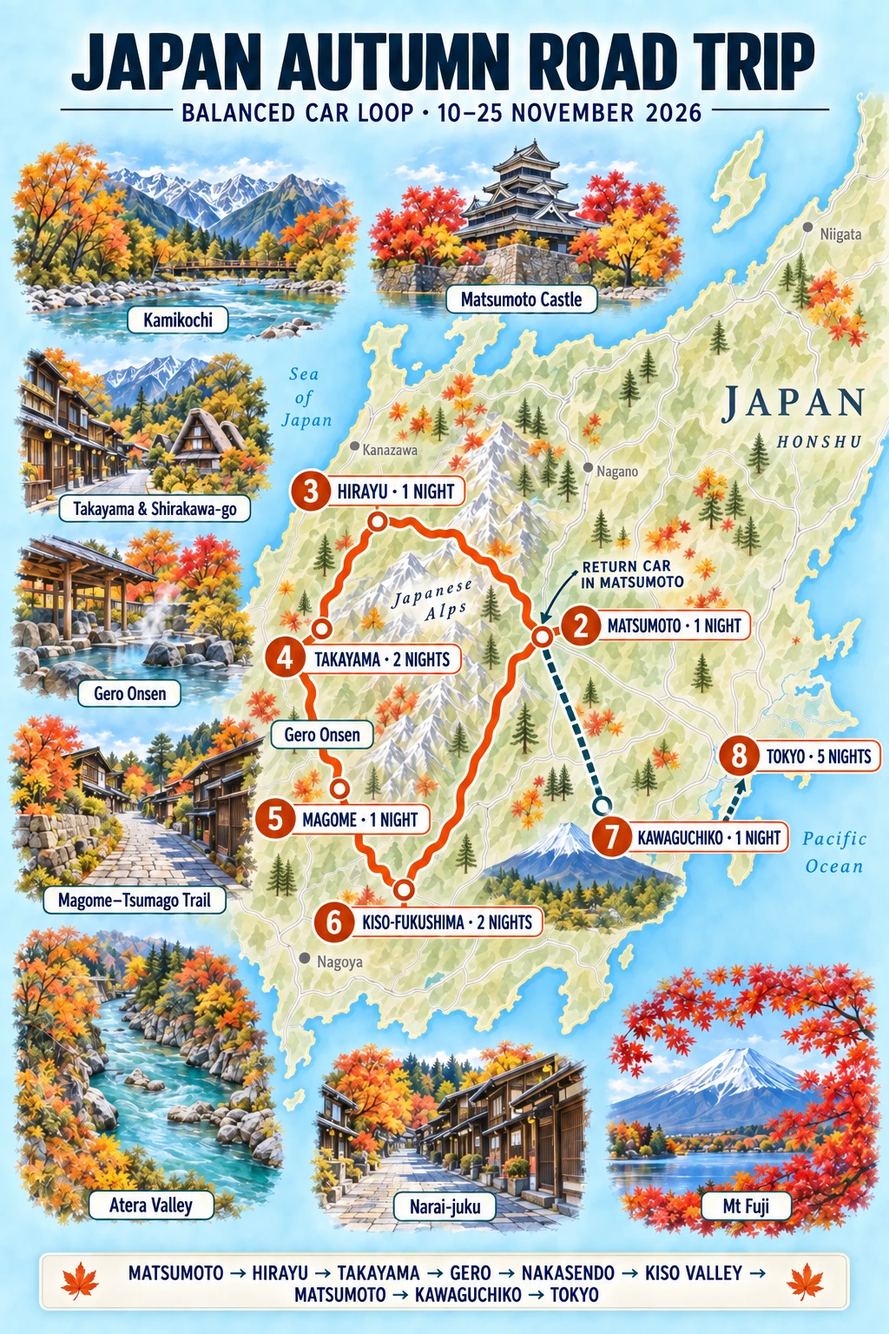
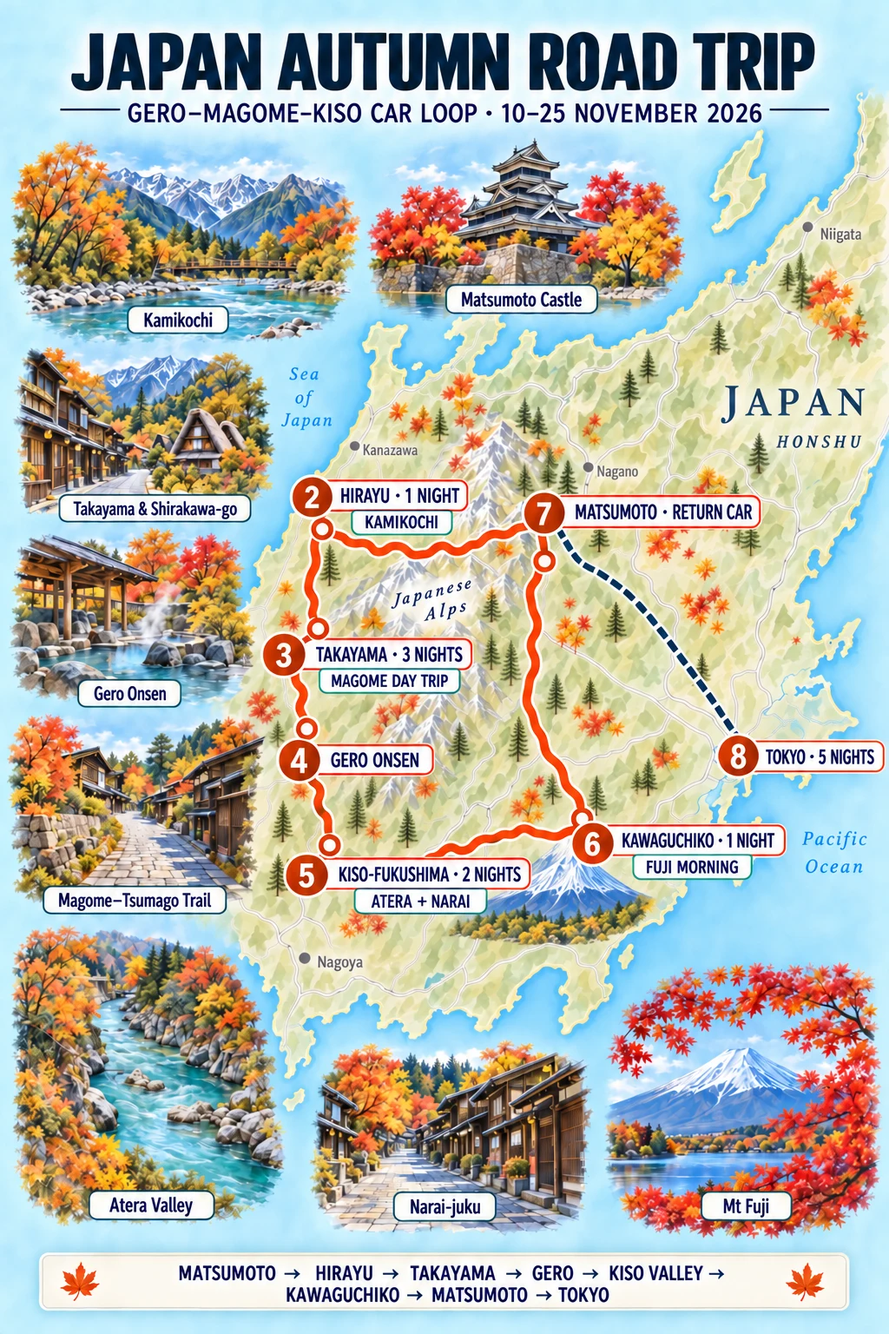
Revise Fuji car loop and foliage section

diff --git a/index.html b/index.html
@@ -102,13 +102,7 @@
     </section>
 
     <section class="section foliage-section" id="foliage" aria-labelledby="foliage-title">
-      <header class="foliage-heading">
-        <div>
-          <span class="eyebrow">2026 colour forecast · updated 6 October</span>
-          <h2 id="foliage-title">Follow the colour<br><em>down the mountains</em></h2>
-        </div>
-        <p>The season moves from the high Alps toward the warmer valleys and Tokyo. Your route follows the right direction: expect winter-transition scenery first, then the strongest colour around Gero, Kawaguchiko and the final Tokyo days.</p>
-      </header>
+      <details class="major-section" open><summary><span class="eyebrow">2026 colour forecast · updated 6 October</span><strong id="foliage-title">Follow the colour down the mountains</strong><small>From the wintry high Alps to Gero, Fuji and Tokyo’s later autumn colour.</small></summary><div class="major-body">
 
       <div class="foliage-outlook">
         <div class="outlook-copy"><span>Latest national signal</span><strong>Normal to later than usual</strong><p>Above-average temperatures through November favour a slower finish in eastern Japan. This helps the lower stops, but it cannot hold high-altitude Kamikochi colour until mid-November.</p></div>
@@ -208,6 +202,7 @@
         <a href="https://nagiso.jp/autumn_flower_info/" target="_blank" rel="noreferrer">Tsumago + Nagiso live tracker ↗</a>
         <a href="https://fujisan.ne.jp/news/6065/" target="_blank" rel="noreferrer">Kawaguchiko festival + timing ↗</a>
       </div>
+      </div></details>
     </section>
 
     <section class="places-showcase" id="places">
@@ -226,7 +221,7 @@
       <details class="major-section" open><summary><span class="eyebrow">Five complete routes</span><strong>Choose one route</strong><small>Compare the car loops with both public-transport plans.</small></summary><div class="major-body">
         <div class="late-plan-banner">
           <div><span>Preferred final plan</span><h3>Gero–Magome–Kiso Car Loop</h3></div>
-          <p>Stay three nights in Takayama, visit Magome as a day trip on 16 November, then drive via Gero to two nights in Kiso-Fukushima. Finish with Kawaguchiko and five Tokyo nights.</p>
+          <p>Stay three nights in Takayama, visit Magome on 16 November, then drive via Gero to Kiso-Fukushima. On 19 November drive to Kawaguchiko; on 20 November return the car in Matsumoto and take the train to Tokyo.</p>
         </div>
 
         <div class="plan-detail-grid">
@@ -306,11 +301,11 @@
             </div>
           </div></details>
           <details class="plan-detail balanced recommended" id="balanced-kiso-drive" name="route-version" open><summary><span class="version-key"><b>BK</b><small>Route</small></span><span class="version-copy"><small>Preferred · final plan</small><strong>Gero–Magome–Kiso Car Loop</strong><em>Three Takayama nights · Magome day trip · Kiso and Fuji</em></span><span class="version-stats"><i>13–20 Nov</i><i>Car + rail</i></span></summary><div class="version-panel">
-            <div class="version-toolbar"><p>The final loop keeps three Takayama nights, uses 16 November for a same-day Magome and Tsumago outing, then drives via Gero to Kiso-Fukushima on 17 November. Return the car on 19 November and finish with Kawaguchiko plus five Tokyo nights.</p><div class="link-row"><a href="https://www.google.com/maps/dir/?api=1&amp;origin=Matsumoto+Station%2C+Nagano&amp;destination=Matsumoto+Station%2C+Nagano&amp;travelmode=driving&amp;waypoints=Hirayu+Onsen%7CTakayama%2C+Gifu%7CGero+Onsen%7CKiso-Fukushima%7CAtera+Valley%7CNarai-juku" target="_blank" rel="noreferrer">Open driving loop ↗</a><a href="https://www.nouhibus.co.jp/route_bus/magome_tsumago_line_en/" target="_blank" rel="noreferrer">Magome coach timetable ↗</a></div></div>
+            <div class="version-toolbar"><p>The final loop keeps three Takayama nights, uses 16 November for Magome and Tsumago, then drives via Gero to Kiso-Fukushima. On 19 November continue by car to Kawaguchiko; on 20 November drive back to Matsumoto, return the car and take the train to Tokyo.</p><div class="link-row"><a href="https://www.google.com/maps/dir/?api=1&amp;origin=Matsumoto+Station%2C+Nagano&amp;destination=Matsumoto+Station%2C+Nagano&amp;travelmode=driving&amp;waypoints=Hirayu+Onsen%7CTakayama%2C+Gifu%7CGero+Onsen%7CKiso-Fukushima%7CKawaguchiko%2C+Yamanashi" target="_blank" rel="noreferrer">Open driving loop ↗</a><a href="https://www.nouhibus.co.jp/route_bus/magome_tsumago_line_en/" target="_blank" rel="noreferrer">Magome coach timetable ↗</a></div></div>
             <div class="version-content-grid">
               <div class="route-map-gallery">
-                <figure class="route-map-figure"><a href="assets/maps/japan-balanced-car-loop-map.png" target="_blank"><img data-src="assets/maps/japan-balanced-car-loop-map.webp" width="1126" height="1397" loading="lazy" decoding="async" alt="Gero–Magome–Kiso Car Loop map from Matsumoto through Hirayu, Takayama, Gero, Magome and Kiso-Fukushima, followed by Kawaguchiko and five Tokyo nights"><span class="map-mode-marker marker-car" style="--marker-x:38%;--marker-y:45%" aria-hidden="true">🚗</span><span class="map-mode-marker marker-train" style="--marker-x:72%;--marker-y:57%" aria-hidden="true">🚆</span></a><figcaption><span><b>Balanced car-loop map</b><small>Exact dates and night counts</small></span><a href="assets/maps/japan-balanced-car-loop-map.png" target="_blank">Open full size ↗</a></figcaption></figure>
-                <figure class="route-map-figure"><a href="assets/maps/japan-balanced-car-loop-illustrated.png" target="_blank"><img data-src="assets/maps/japan-balanced-car-loop-illustrated.webp" width="1024" height="1536" loading="lazy" decoding="async" alt="Illustrated Gero–Magome–Kiso route through Kamikochi, Takayama, Gero, Magome, Atera Valley, Narai, Kawaguchiko and Tokyo"><span class="map-mode-marker marker-car" style="--marker-x:43%;--marker-y:47%" aria-hidden="true">🚗</span><span class="map-mode-marker marker-train" style="--marker-x:68%;--marker-y:57%" aria-hidden="true">🚆</span></a><figcaption><span><b>Autumn sights map</b><small>Dedicated three-night Takayama edition</small></span><a href="assets/maps/japan-balanced-car-loop-illustrated.png" target="_blank">Open full size ↗</a></figcaption></figure>
+                <figure class="route-map-figure"><a href="assets/maps/japan-balanced-car-loop-map.png" target="_blank"><img data-src="assets/maps/japan-balanced-car-loop-map.webp" width="1126" height="1397" loading="lazy" decoding="async" alt="Gero–Magome–Kiso car route from Matsumoto through Hirayu, Takayama, Gero and Kiso-Fukushima to Kawaguchiko, returning to Matsumoto on 20 November before the train to Tokyo"><span class="map-mode-marker marker-car" style="--marker-x:38%;--marker-y:45%" aria-hidden="true">🚗</span><span class="map-mode-marker marker-train" style="--marker-x:72%;--marker-y:57%" aria-hidden="true">🚆</span></a><figcaption><span><b>Balanced car-loop map</b><small>Kawaguchiko before the 20 Nov car return</small></span><a href="assets/maps/japan-balanced-car-loop-map.png" target="_blank">Open full size ↗</a></figcaption></figure>
+                <figure class="route-map-figure"><a href="assets/maps/japan-balanced-car-loop-illustrated.png" target="_blank"><img data-src="assets/maps/japan-balanced-car-loop-illustrated.webp" width="1024" height="1536" loading="lazy" decoding="async" alt="Illustrated Gero–Magome–Kiso route through Kamikochi, Takayama, Gero and Kiso to Kawaguchiko, returning by car to Matsumoto and continuing by train to Tokyo"><span class="map-mode-marker marker-car" style="--marker-x:43%;--marker-y:47%" aria-hidden="true">🚗</span><span class="map-mode-marker marker-train" style="--marker-x:68%;--marker-y:57%" aria-hidden="true">🚆</span></a><figcaption><span><b>Autumn sights map</b><small>Drive to Fuji, return the car next day</small></span><a href="assets/maps/japan-balanced-car-loop-illustrated.png" target="_blank">Open full size ↗</a></figcaption></figure>
               </div>
               <div class="version-route-copy"><div class="route-flow compact-route" aria-label="Balanced road-trip version route">
                 <div class="route-stop city"><span>10–12 Nov</span><strong>Tokyo</strong><small>2 nights</small><em>Arrival</em></div>
@@ -318,9 +313,9 @@
                 <div class="route-stop accent"><span>13–14 Nov</span><strong>Hirayu</strong><small>1 night</small><em>Onsen first</em></div>
                 <div class="route-stop accent"><span>14–17 Nov</span><strong>Takayama</strong><small>3 nights</small><em>Shirakawa + Magome day trips</em></div>
                 <div class="route-stop accent"><span>17–19 Nov</span><strong>Kiso-Fukushima</strong><small>2 nights</small><em>Nakasendo + valley</em></div>
-                <div class="route-stop accent"><span>19–20 Nov</span><strong>Kawaguchiko</strong><small>1 night</small><em>After car return</em></div>
+                <div class="route-stop accent"><span>19–20 Nov</span><strong>Kawaguchiko</strong><small>1 night</small><em>Drive from Kiso</em></div>
                 <div class="route-stop city"><span>20–25 Nov</span><strong>Tokyo</strong><small>5 nights</small><em>One day trip</em></div>
-              </div><ul class="plan-rules"><li>This version focuses on streets, gardens, scenery, short walks and onsen.</li><li>Sunset is around 16:35–16:45. Protect the Magome day trip, Gero stop and Atera Valley daylight rather than adding extra stops.</li><li>On 16 November, leave the car parked in Takayama and use the direct seasonal coach to Magome. Reserve the return seats as soon as the 2026 timetable opens.</li><li>On 17 November, check out after breakfast, stop in Gero, then reach Kiso-Fukushima before dark.</li><li>19 November is the tightest transfer. If Narai runs late, skip Hirasawa and protect the Matsumoto car-return appointment and Kawaguchiko connection.</li><li>Confirm the accepted IDP, studless winter tyres, ETC card and roadside cover in writing for the exact rental vehicle.</li></ul>
+              </div><ul class="plan-rules"><li>This version focuses on streets, gardens, scenery, short walks and onsen.</li><li>Sunset is around 16:35–16:45. Protect the Magome day trip, Gero stop and Atera Valley daylight rather than adding extra stops.</li><li>On 16 November, leave the car parked in Takayama and use the direct seasonal coach to Magome. Reserve the return seats as soon as the 2026 timetable opens.</li><li>On 17 November, check out after breakfast, stop in Gero, then reach Kiso-Fukushima before dark.</li><li>On 19 November, leave Kiso early enough to reach Kawaguchiko before dusk. On 20 November, use the Fuji morning, drive back to Matsumoto, refuel, return the car and take the Azusa to Tokyo.</li><li>Confirm the accepted IDP, studless winter tyres, ETC card and roadside cover in writing for the exact rental vehicle.</li></ul>
                 <section class="roadtrip-daily" aria-labelledby="balanced-roadtrip-daily-title">
                   <header><span>Gero–Magome–Kiso Car Loop · field plan</span><h4 id="balanced-roadtrip-daily-title">What to do each day</h4><p>Three Takayama nights and only one major outing per day.</p></header>
                   <ol class="roadtrip-days">
@@ -333,8 +328,8 @@
                     <li><time datetime="2026-11-16">16 Nov</time><div class="day-base"><b>Takayama</b><small>Night 3 of 3</small></div><div class="day-plan"><strong>Magome + Tsumago day trip</strong><ul class="day-agenda"><li><b>08:00</b><span>Leave the car parked and take the reserved seasonal coach from Takayama to Magome.</span></li><li><b>10:45–13:00</b><span>Walk Magome’s sloping old street and viewpoints, then continue toward Tsumago only as far as the confirmed return timetable comfortably allows.</span></li><li><b>Afternoon</b><span>Use the local connection between the post towns if operating, then take the reserved 15:00 coach back to Takayama.</span></li><li><b>Evening</b><span>Return to the same hotel for an easy final Takayama evening.</span></li></ul></div></li>
                     <li class="drive-day"><time datetime="2026-11-17">17 Nov</time><div class="day-base"><b>Kiso-Fukushima</b><small>Night 1 of 2</small></div><div class="day-plan"><strong>Gero Onsen, then Kiso-Fukushima</strong><ul class="day-agenda"><li><b>09:00</b><span>Check out and drive from Takayama to Gero.</span></li><li><b>10:15–12:30</b><span>Walk the riverside and Onsenji area, use a footbath or prearranged day-use onsen, then have an early lunch.</span></li><li><b>12:30–15:30</b><span>Drive to Kiso-Fukushima with a generous mountain-road buffer.</span></li><li><b>Before dark</b><span>Check in, then use the remaining light for the riverside or public footbath.</span></li></ul></div></li>
                     <li class="drive-day"><time datetime="2026-11-18">18 Nov</time><div class="day-base"><b>Kiso-Fukushima</b><small>Night 2 of 2</small></div><div class="day-plan"><strong>Atera Valley and Nezame-no-Toko</strong><ul class="day-agenda"><li><b>10:00</b><span>Leave after breakfast. Use short roadside viewpoints and a manageable valley walk rather than relying on seasonal bicycle rental.</span></li><li><b>12:30–13:30</b><span>Lunch around Nojiri, Agematsu or from a prepared picnic, depending on what is open.</span></li><li><b>13:30–15:15</b><span>Visit Nezame-no-Toko. Use the upper viewpoint if wet rocks, fatigue or fading daylight make the descent undesirable.</span></li><li><b>16:00 onward</b><span>Return to Kiso-Fukushima for the riverside, footbath and an unhurried evening.</span></li></ul></div></li>
-                    <li class="drive-day"><time datetime="2026-11-19">19 Nov</time><div class="day-base"><b>Kawaguchiko</b><small>1 night</small></div><div class="day-plan"><strong>Narai, return car and transfer</strong><ul class="day-agenda"><li><b>09:15</b><span>Check out and drive to Narai. Park outside the preserved street.</span></li><li><b>10:00–11:30</b><span>Walk Narai-juku and browse exterior streets and shops; do not add house interiors.</span></li><li><b>11:40–12:15</b><span>Make a brief Kiso-Hirasawa lacquerware stop only if the morning is on time.</span></li><li><b>12:15–14:00</b><span>Drive to Matsumoto, refuel and return the car. Skip Hirasawa if needed—this appointment controls the day.</span></li><li><b>Afternoon</b><span>Travel by train via Otsuki to Kawaguchiko. Expect an evening arrival, so reserve dinner or buy food before the final train.</span></li></ul></div></li>
-                    <li><time datetime="2026-11-20">20 Nov</time><div class="day-base"><b>Tokyo</b><small>Night 1 of 5</small></div><div class="day-plan"><strong>Fuji morning, then neighbourhoods</strong><p>Use the clearest lakeside hours, reach Tokyo in the early afternoon, drop bags and keep sightseeing: choose Nakano–Koenji from a Shinjuku hotel, or Kappabashi–Kuramae–Akihabara from an eastern hotel.</p></div></li>
+                    <li class="drive-day"><time datetime="2026-11-19">19 Nov</time><div class="day-base"><b>Kawaguchiko</b><small>1 night</small></div><div class="day-plan"><strong>Kiso-Fukushima to Kawaguchiko</strong><ul class="day-agenda"><li><b>08:30</b><span>Check out, load the car and leave Kiso-Fukushima.</span></li><li><b>09:15–11:00</b><span>Use Narai-juku as the one substantial stop; skip Kiso-Hirasawa if it threatens the daylight drive.</span></li><li><b>11:15–15:00</b><span>Drive toward Kawaguchiko with a lunch and road-conditions buffer.</span></li><li><b>15:00 onward</b><span>Check in, park and use the remaining light for the lakeshore or Momiji Corridor.</span></li></ul></div></li>
+                    <li class="drive-day"><time datetime="2026-11-20">20 Nov</time><div class="day-base"><b>Tokyo</b><small>Night 1 of 5</small></div><div class="day-plan"><strong>Fuji morning → Matsumoto → Tokyo</strong><ul class="day-agenda"><li><b>Dawn–09:00</b><span>Use the clearest hours at the lake for north-shore Fuji views, then check out.</span></li><li><b>09:15–11:45</b><span>Drive back to Matsumoto with a road buffer; refuel before the rental branch.</span></li><li><b>Around 12:00</b><span>Return the car in Matsumoto and have lunch near the station.</span></li><li><b>Afternoon</b><span>Take a reserved Azusa to Tokyo, check in and keep the evening local.</span></li></ul></div></li>
                     <li><time datetime="2026-11-21">21 Nov</time><div class="day-base"><b>Tokyo</b><small>Night 2 of 5</small></div><div class="day-plan"><strong>Tsukiji, Hamarikyu and east Tokyo</strong><p>Reach Tsukiji around 08:30, continue to Hamarikyu, then use the afternoon for Kiyosumi-Shirakawa and Monzen-Nakacho.</p></div></li>
                     <li><time datetime="2026-11-22">22 Nov</time><div class="day-base"><b>Tokyo</b><small>Night 3 of 5</small></div><div class="day-plan"><strong>Rikugien, Yanaka and Nezu</strong><p>Leave bags at the Asakusabashi hotel, enter Rikugien near opening, then continue through Yanaka, Sendagi and Nezu before a late dinner.</p></div></li>
                     <li><time datetime="2026-11-23">23 Nov</time><div class="day-base"><b>Tokyo</b><small>Night 4 of 5</small></div><div class="day-plan"><strong>Movable landscape slot</strong><p>Use the 48-hour forecast to choose Izu, Chichibu–Nagatoro, Kamakura or a dense Tokyo day; 23 November is a public holiday.</p></div></li>
@@ -486,7 +481,7 @@
       </div>
       <div class="callout note stay-warning"><strong>Matsumoto–Takayama Car Loop gaps</strong><p>This route still needs Matsumoto for 17-18 Nov, and the current Takayama booking runs through 18 Nov. Adjust both only if that route is chosen. Personal details and booking identifiers are deliberately excluded from this public page.</p></div>
       <div class="callout note stay-warning"><strong>Preferred loop booking gaps</strong><p>Secure Takayama for 14–17 Nov, Kiso-Fukushima for 17–19 Nov and Kawaguchiko for 19–20 Nov. No Magome hotel is needed: it is a day trip from Takayama on 16 Nov. Cancel Kyoto only after the car, accepted IDP and winter tyres are confirmed.</p></div>
-      <div class="callout note stay-warning"><strong>Gero–Magome–Kiso Car Loop decision</strong><p>Keep the car parked in Takayama for the Magome day trip, check out on 17 Nov, stop in Gero and continue to Kiso-Fukushima. Return the car in Matsumoto on 19 Nov, then continue to Kawaguchiko for one night and reach Tokyo on 20 Nov.</p></div>
+      <div class="callout note stay-warning"><strong>Gero–Magome–Kiso Car Loop decision</strong><p>Keep the car parked in Takayama for the Magome day trip, check out on 17 Nov, stop in Gero and continue to Kiso-Fukushima. Drive to Kawaguchiko on 19 Nov, keep the car overnight, then return it in Matsumoto on 20 Nov and take the Azusa to Tokyo.</p></div>
       <div class="callout note stay-warning"><strong>Tokyo cancellation order</strong><p><b>20–22 Nov:</b> House Ikebukuro first; TenTen Guesthouse second only for its ₹13.5k price, then Asakusa Central, Sakura Nippori and Hotel Opera. TenTen is a 9 m² bunk-bed room with shared bath; House is also shared-bath but has three separate sleeping spaces. <b>22–25 Nov:</b> keep APA Asakusabashi; APA Akihabara is the closest substitute, with the Ikebukuro options behind it unless Chichibu becomes the overriding priority.</p></div>
       <div class="callout note stay-warning"><strong>Magome &amp; Kiso public-transport bookings</strong><p>Keep AB Hotel on 16 November and Nezame Hotel on 17–19 November. They avoid another accommodation search, but require the Tegano-naka and Chugakko local buses. Do not cancel them for an unavailable Magome or Kiso-Fukushima room.</p></div>
       </div></details>
@@ -505,8 +500,8 @@
         <details class="day rail-day" open><summary><span class="date">16 Nov</span><span class="day-title">Magome + Tsumago day trip</span><span class="nights">Takayama · 3/3</span></summary><div class="detail-body day-grid"><div><h3>Plan</h3><ul><li>Leave the car parked and take the reserved <b>08:00–10:45</b> seasonal coach from Takayama to Magome.</li><li>Walk Magome’s old street and viewpoints, adding Tsumago only within the confirmed connection and return timetable.</li><li>Use the reserved <b>15:00</b> coach back to Takayama and return to the same hotel.</li></ul></div><aside class="food-box"><h3>Booking rule</h3><p>Reserve both directions when the 2026 timetable opens. Treat the full 8–9 km hike as optional because the same-day return controls the visit.</p></aside></div></details>
         <details class="day car-day" open><summary><span class="date">17 Nov</span><span class="day-title">Takayama → Gero → Kiso</span><span class="nights">Kiso-Fukushima · 1/2</span></summary><div class="detail-body day-grid"><div><h3>Plan</h3><ul><li><b>09:00:</b> check out and drive to Gero.</li><li><b>10:15–12:30:</b> walk the riverside and Onsenji area, use a footbath or prearranged day-use onsen, then have an early lunch.</li><li><b>12:30–15:30:</b> drive to Kiso-Fukushima with a generous buffer and check in before dark.</li></ul></div><aside class="food-box"><h3>Daylight rule</h3><p>Keep Gero compact enough to protect the mountain drive and a daylight arrival in Kiso-Fukushima.</p></aside></div></details>
         <details class="day car-day"><summary><span class="date">18 Nov</span><span class="day-title">Atera Valley + Nezame-no-Toko</span><span class="nights">Kiso-Fukushima · 2/2</span></summary><div class="detail-body day-grid"><div><h3>Plan</h3><ul><li>Leave around <b>10:00</b>. Use short Atera Valley viewpoints and a manageable walk rather than relying on seasonal bicycle rental.</li><li>Have lunch around Nojiri or Agematsu, or carry a picnic if opening hours are uncertain.</li><li><b>13:30–15:15:</b> visit Nezame-no-Toko; use the upper viewpoint if rocks are wet or daylight is fading.</li></ul></div><aside class="food-box"><h3>Priority</h3><p>Atera Valley gets the best daylight. Keep Nezame-no-Toko optional if the valley runs late.</p></aside></div></details>
-        <details class="day car-day" open><summary><span class="date">19 Nov</span><span class="day-title">Narai → return car → Kawaguchiko</span><span class="nights">Kawaguchiko · 1/1</span></summary><div class="detail-body day-grid"><div><h3>Plan</h3><ul><li><b>09:15:</b> check out and drive to Narai; walk the preserved street from roughly 10:00–11:30.</li><li>Stop briefly at Kiso-Hirasawa only if on time.</li><li><b>12:15–14:00:</b> drive to Matsumoto, refuel and return the car.</li><li>Continue by train via Otsuki to Kawaguchiko; expect an evening arrival.</li></ul></div><aside class="food-box"><h3>Tightest day</h3><p>Skip Hirasawa if needed. The car-return appointment and Kawaguchiko connection control the day.</p></aside></div></details>
-        <details class="day rail-day" open><summary><span class="date">20 Nov</span><span class="day-title">Fuji morning → full Tokyo evening</span><span class="nights">Tokyo · 1/5</span></summary><div class="detail-body day-grid"><div><h3>Plan</h3><ul><li>Start early with the clearest available north- or east-shore Fuji view, then travel to Tokyo before lunch if practical.</li><li>From a Shinjuku hotel, use the afternoon and evening for Nakano Broadway, Koenji's shopping streets, vintage stores and izakaya.</li><li>From an eastern hotel, use Kappabashi before shops close, then Kuramae, Akihabara after dark and dinner under the tracks around Kanda.</li></ul></div><aside class="food-box"><h3>No rest day</h3><p>Choose the neighbourhood cluster according to the hotel. Do not spend daylight crossing Tokyo twice.</p></aside></div></details>
+        <details class="day car-day" open><summary><span class="date">19 Nov</span><span class="day-title">Kiso → Kawaguchiko by car</span><span class="nights">Kawaguchiko · 1/1</span></summary><div class="detail-body day-grid"><div><h3>Plan</h3><ul><li><b>08:30:</b> check out and leave Kiso-Fukushima.</li><li><b>09:15–11:00:</b> walk Narai-juku; skip Kiso-Hirasawa if the morning runs late.</li><li><b>11:15–15:00:</b> drive to Kawaguchiko with lunch and road-condition buffers.</li><li>Check in, park and use the remaining light for the lakeshore or Momiji Corridor.</li></ul></div><aside class="food-box"><h3>Daylight rule</h3><p>The car stays with you overnight. Reach Kawaguchiko before dusk rather than adding another Kiso stop.</p></aside></div></details>
+        <details class="day car-day" open><summary><span class="date">20 Nov</span><span class="day-title">Fuji → return car → Tokyo</span><span class="nights">Tokyo · 1/5</span></summary><div class="detail-body day-grid"><div><h3>Plan</h3><ul><li>Use dawn–09:00 for the clearest north-shore Fuji views, then check out.</li><li><b>09:15–11:45:</b> drive back to Matsumoto and refuel.</li><li><b>Around 12:00:</b> return the car, have lunch near the station and take a reserved Azusa to Tokyo.</li><li>Check in and keep the Tokyo evening local.</li></ul></div><aside class="food-box"><h3>Car-return day</h3><p>Protect the Matsumoto appointment. Skip extra Fuji stops if visibility or road conditions delay departure.</p></aside></div></details>
         <details class="day rail-day"><summary><span class="date">21 Nov</span><span class="day-title">Tsukiji + Hamarikyu + east Tokyo</span><span class="nights">Tokyo · 2/5</span></summary><div class="detail-body day-grid"><div><h3>Plan</h3><ul><li>Reach Tsukiji Outer Market around 08:30 for breakfast and browsing; Saturday is the clean fit before Sunday and the 23 November holiday.</li><li>Walk to Hamarikyu, then continue after lunch to Kiyosumi-Shirakawa's garden, cafés and warehouse streets.</li><li>Finish around Monzen-Nakacho and its riverside or small restaurants.</li></ul></div><aside class="food-box"><h3>Market rule</h3><p>Check individual shop hours and prioritise two or three foods rather than joining every visible queue.</p></aside></div></details>
         <details class="day rail-day"><summary><span class="date">22 Nov</span><span class="day-title">Move hotel + Rikugien + Yanaka–Nezu</span><span class="nights">Tokyo · 3/5</span></summary><div class="detail-body day-grid"><div><h3>Plan</h3><ul><li>Move from House Ikebukuro to APA Asakusabashi via Akihabara and leave the bags before check-in, then enter Rikugien near 09:00.</li><li>Continue through Yanaka Cemetery, Yanaka Ginza, Sendagi and selected Nezu backstreets, using trains between clusters if needed.</li><li>Return for check-in, then add Asakusabashi's izakaya streets, Akihabara after dark or Kanda under the tracks.</li></ul></div><aside class="food-box"><h3>Not a rest day</h3><p>The hotel transfer is folded into a full walking day. Visit Rikugien in daylight; verify any 2026 night-viewing dates before relying on them.</p></aside></div></details>
         <details class="day rail-day"><summary><span class="date">23 Nov</span><span class="day-title">Izu or Chichibu–Nagatoro</span><span class="nights">Tokyo · 4/5</span></summary><div class="detail-body day-grid"><div><h3>Plan</h3><ul><li><b>Maximum spectacle:</b> Mount Omuro chairlift, the Jogasaki lava coast and an ocean-view onsen on the Izu Peninsula.</li><li><b>Autumn countryside:</b> Laview to Chichibu, Nagatoro river boat, Hodosan Shrine and ropeway, Iwadatami, then local dinner near Seibu-Chichibu.</li><li>Choose using the 48-hour visibility, wind and river-operation reports; reserve the long-distance seats either way.</li></ul></div><aside class="food-box"><h3>Holiday</h3><p>23 November is Labor Thanksgiving Day. Start early and expect queues, particularly at ropeways and restaurants.</p></aside></div></details>
@@ -656,14 +651,14 @@
           <article><time>10 Nov</time><div><strong>Arrival still gets an evening</strong><p>Narita 15:35 → Shinjuku check-in → Omoide Yokocho, Kabukicho and Shin-Okubo. Keep it local, but do not write off the night.</p></div></article>
           <article><time>11 Nov</time><div><strong>Full neighbourhood day</strong><p>Kagurazaka–Iidabashi, then Daikanyama–Nakameguro, with Koenji or Nakano after dark. This avoids repeating Tokyo's headline icons.</p></div></article>
           <article><time>12 Nov</time><div><strong>Tokyo → Matsumoto</strong><p>Use the booked Azusa connection, then Matsumoto Castle, Nawate Street and Nakamachi after leaving the bags.</p></div></article>
-          <article class="branch"><time>19/20 Nov</time><div><strong>Choose the Fuji branch</strong><p><b>Overnight:</b> Matsumoto → Otsuki → Kawaguchiko on 19 Nov, sunrise/lake shore next morning, then House Ikebukuro. <b>Tokyo base:</b> Matsumoto → Shinjuku on 19 Nov, add that hotel night and use 20 Nov for a Kawaguchiko return day trip.</p></div></article>
+          <article class="branch"><time>19/20 Nov</time><div><strong>Preferred Fuji sequence</strong><p><b>19 Nov:</b> drive Kiso-Fukushima → Kawaguchiko and keep the car overnight. <b>20 Nov:</b> use the Fuji morning, drive to Matsumoto, return the car and take the Azusa to Tokyo.</p></div></article>
           <article class="anchor"><time>21 Nov</time><div><strong>Best Tsukiji slot</strong><p>Tsukiji Outer Market at 08:00–08:30, Hamarikyu, then Kiyosumi-Shirakawa and Monzen-Nakacho. Pick two or three foods and check each shop's hours.</p></div></article>
           <article><time>22 Nov</time><div><strong>Hotel move + Rikugien</strong><p>House Ikebukuro → leave bags at APA Asakusabashi, enter Rikugien near 09:00, then Yanaka Cemetery, Yanaka Ginza, Sendagi and Nezu. Finish in Akihabara, Asakusabashi or Kanda.</p></div></article>
           <article class="flex"><time>23–24 Nov</time><div><strong>Two movable full-day slots</strong><p>Use one for the best-weather landscape trip and the other for Kamakura, Chichibu or a dense Tokyo cluster. Do not lock the exposed Izu/Fuji day until the forecast is useful.</p></div></article>
           <article><time>25 Nov</time><div><strong>Asakusabashi → Narita T2</strong><p>Check out around 08:50. Current weekday timetable: 09:17 direct Access Express to Narita Airport, with 09:38 as fallback. Recheck in November; this is an unreserved commuter service.</p></div></article>
         </div>
 
-        <div class="callout note fuji-cost-note"><strong>Fuji overnight versus Tokyo day trip</strong><p>The Tokyo-base version is a convenience upgrade, not a saving. For two, its transport is about ¥6,460–6,860 (₹3,900–4,200) more than Matsumoto → Kawaguchiko → Tokyo, before the difference between the Tokyo and lake hotel nights. It removes a luggage move and lets you choose Fuji by weather; the lake overnight gives sunrise and quieter early views. If choosing Tokyo, extend House Ikebukuro or book another room for <b>19 November</b>—the current booking starts on the 20th.</p></div>
+        <div class="callout note fuji-cost-note"><strong>Fuji overnight versus Tokyo fallback</strong><p>The preferred route keeps the rental car through the Kawaguchiko night and returns it in Matsumoto on 20 November. If the Fuji forecast is poor, skip the lake overnight, return the car earlier and extend the Tokyo stay instead.</p></div>
 
         <h3 class="tokyo-subhead">City clusters worth prioritising</h3>
         <div class="tokyo-cluster-grid">
@@ -740,7 +735,7 @@
         <tr><td>17 Nov</td><td>Takayama ↔ Magome / Tsumago</td><td>08:00 → 10:45; 15:00 return</td><td>¥10,000 return / ~₹6,020</td><td>Reserve; use Gero fallback in poor weather.</td></tr>
         <tr class="featured-row"><td>18 Nov</td><td>Takayama → Kyoto</td><td>Direct coach, 13:40 → 17:55</td><td>¥6,500 / ~₹3,915</td><td><a class="place-link" href="https://www.nouhibus.co.jp/highwaybus/osaka_en/" target="_blank" rel="noreferrer">Check and reserve</a></td></tr>
         <tr><td>21 Nov</td><td>Kyoto → Tokyo</td><td>Reserved Hikari/Nozomi</td><td>~¥11,450 / ~₹6,893</td><td>Book from 21 Oct; holiday weekend.</td></tr>
-        <tr><td>20 Nov preferred</td><td>Tokyo ↔ Kawaguchiko</td><td>Reserved Shinjuku highway coach</td><td>¥4,000 online return / ~₹2,430</td><td>Book one month ahead; use another clear day only if needed.</td></tr>
+        <tr><td>Weather fallback only</td><td>Tokyo ↔ Kawaguchiko</td><td>Reserved Shinjuku highway coach</td><td>¥4,000 online return / ~₹2,430</td><td>Use only if the 19 Nov lake overnight is dropped.</td></tr>
       </tbody></table></div>
       <div class="callout note"><strong>Three justified early starts</strong><p>Keep 07:40 for Kamikochi, 07:50 for Shirakawa-go and 08:00 for Nakasendo. Most other middle-route departures can be after 09:00.</p></div>
       </div></details>
